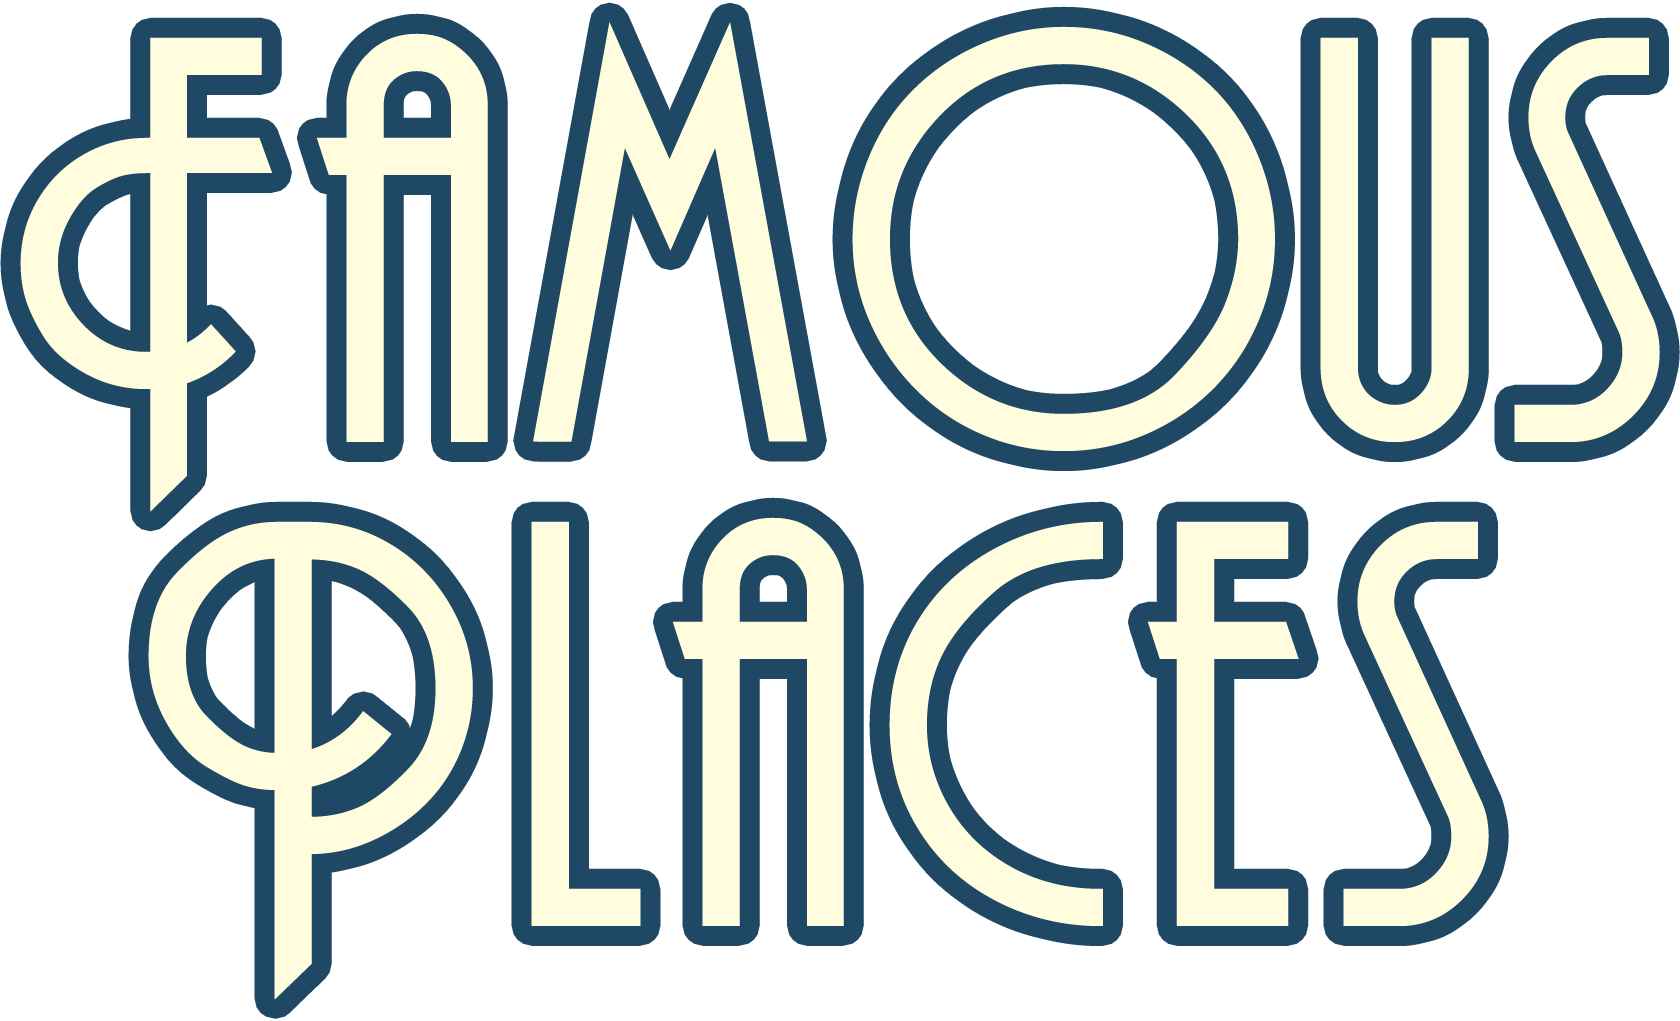
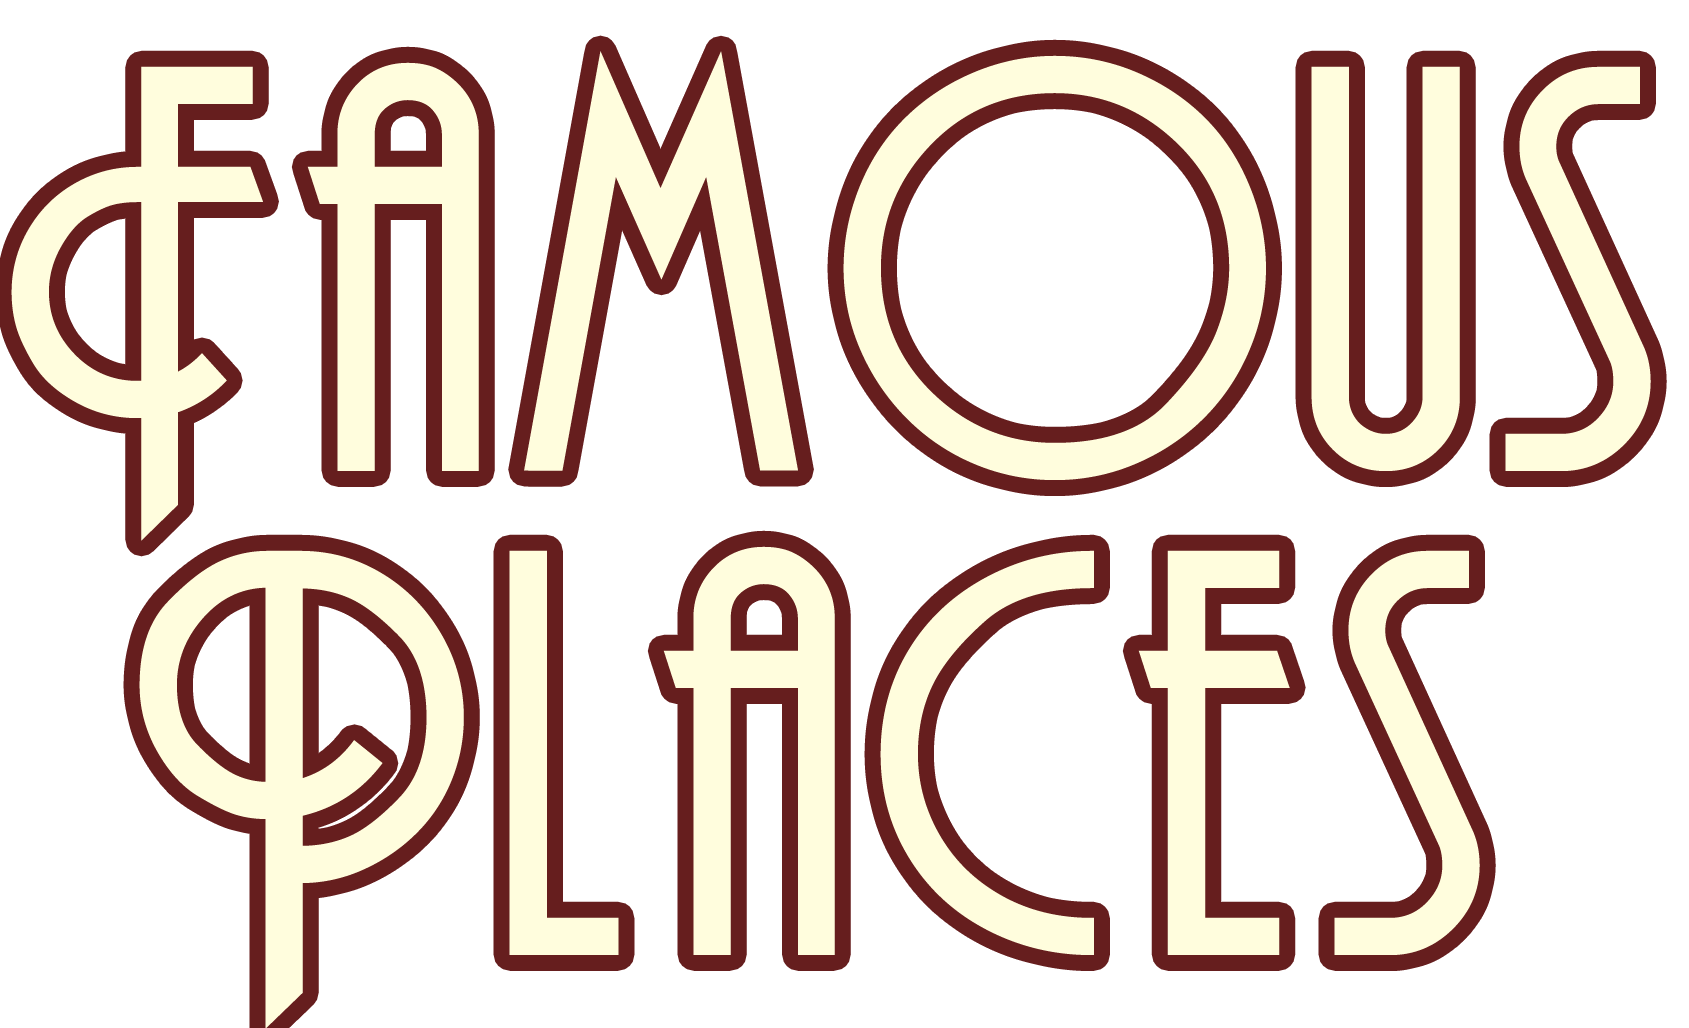
Fix homepage

diff --git a/src/app/_buttons.scss b/src/app/_buttons.scss
@@ -1,10 +1,11 @@
 
 .btn {
   border: none;
+  border-radius: 12px;
 }
 
 .btn-big {
-  max-width: 500px;
+  max-width: 250px;
   width: 50%;
 }
 
@@ -22,14 +23,14 @@
 
 .btn-primary,
 .btn-primary:focus {
-  background-color: $color-gold;
+  background-color: $color-brown;
   color:$color-white;
 }
 .btn-primary:hover {
-  background-color: darken($color-gold, 10%);
+  background-color: darken($color-brown, 10%);
 }
 .btn-primary:active:focus {
-  background-color: darken($color-gold, 20%);
+  background-color: darken($color-brown, 20%);
 }
 .btn-primary:disabled,
 .btn-primary:disabled:hover {

diff --git a/src/app/_texts.scss b/src/app/_texts.scss
@@ -1,3 +1,17 @@
+//Text coloring
+.text-inverted {
+  color: $color-white;
+}
+
+.text-inverted-pale {
+  color: $color-lightyellow;
+}
+
+.text-gold {
+  color: $color-gold;
+}
+
+
 //http://snapcode.co/snap/show/49/bootstrap-3-responsive-text-size-with-media-queries-css-font-style-classes-1
 
 /* Large desktops and laptops */
@@ -263,13 +277,4 @@
     font-size: 8px;
     line-height: normal;
   }
-}
-
-//Text coloring
-.text-inverted {
-  color: $color-white;
-}
-
-.text-inverted-pale {
-  color: $color-lightyellow;
 }

diff --git a/src/app/main/main.html b/src/app/main/main.html
@@ -5,7 +5,7 @@
     <div class="row">
       <div class="col-xs-12">
         <div class="text-center" id="main-subtitle">
-          <span class="textLarge text-inverted-pale">Explore famous locations around the world from your device
+          <span class="textLarge text-inverted">Explore famous locations around the world from your device
           </span>
         </div>
       </div>

diff --git a/src/app/index.scss b/src/app/index.scss
@@ -39,7 +39,7 @@ body {
 
 .mainbg {
   background-color: $color-black;
-  background-image: url(https://dl.dropboxusercontent.com/u/13188176/Famous%20Places/dnb_land_ocean_ice.2012.3600x1800.jpg);
+  background-image:url("../assets/images/map.png");
   background-position: center;
   background-size: cover;
   background-attachment: fixed;

diff --git a/src/app/about/about.html b/src/app/about/about.html
@@ -1,5 +1,5 @@
 <navbar></navbar>
-<div class="container navbar-pad fill">
+<div class="container navbar-pad fill mainbg">
   <div class="row" id="aboutbg">
     <div class="col-xs-12 col-md-4">
       <h1 class="">Hello About Page!</h1>

diff --git a/src/app/_variables.scss b/src/app/_variables.scss
@@ -12,3 +12,4 @@ $color-gold: #FFA336;
 $color-orange: #FB4326;
 $color-red: #BF1E2E;
 $color-purple: #88648A;
+$color-brown: #661e1e;

diff --git a/src/app/about/credits.scss b/src/app/about/credits.scss
@@ -9,7 +9,3 @@
 #aboutbg {
   background-color: $color-white;
 }
-
-* {
-  
-}
